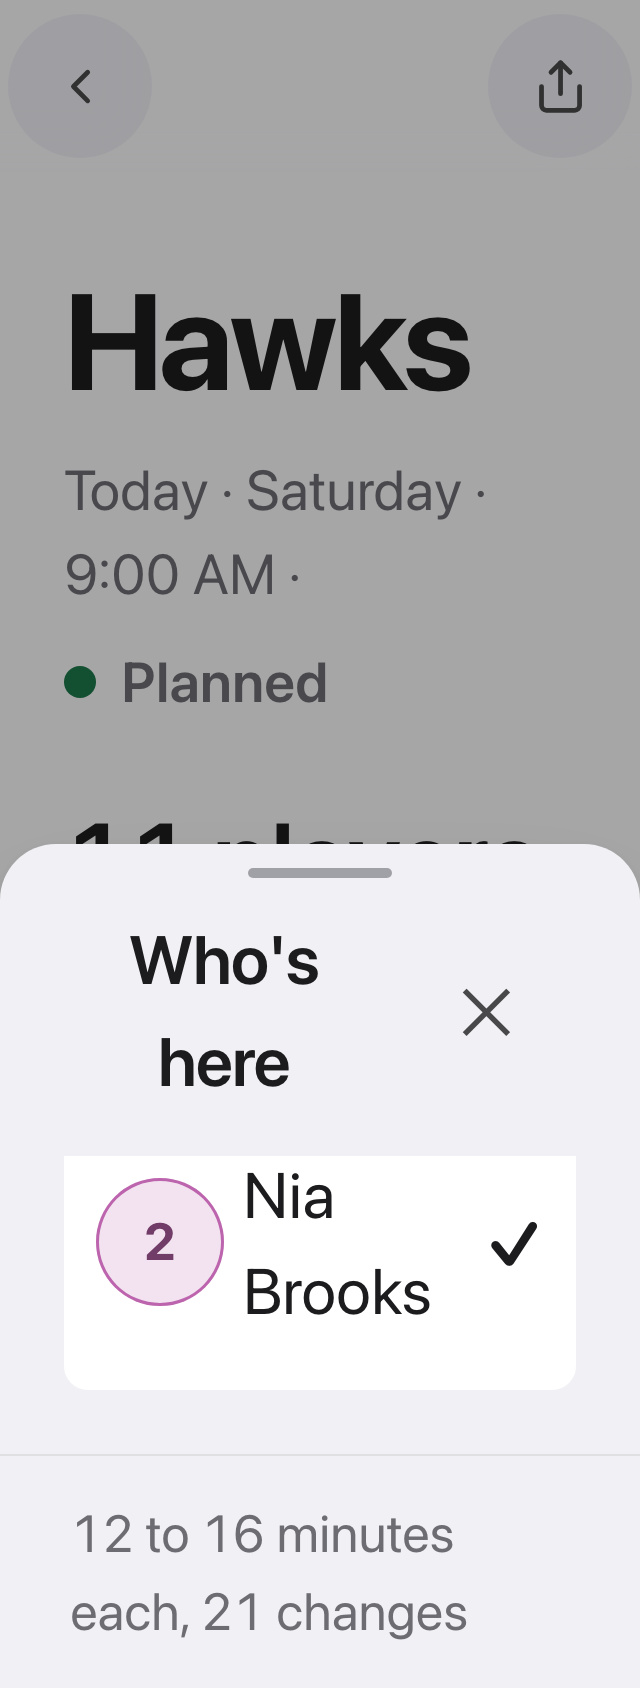
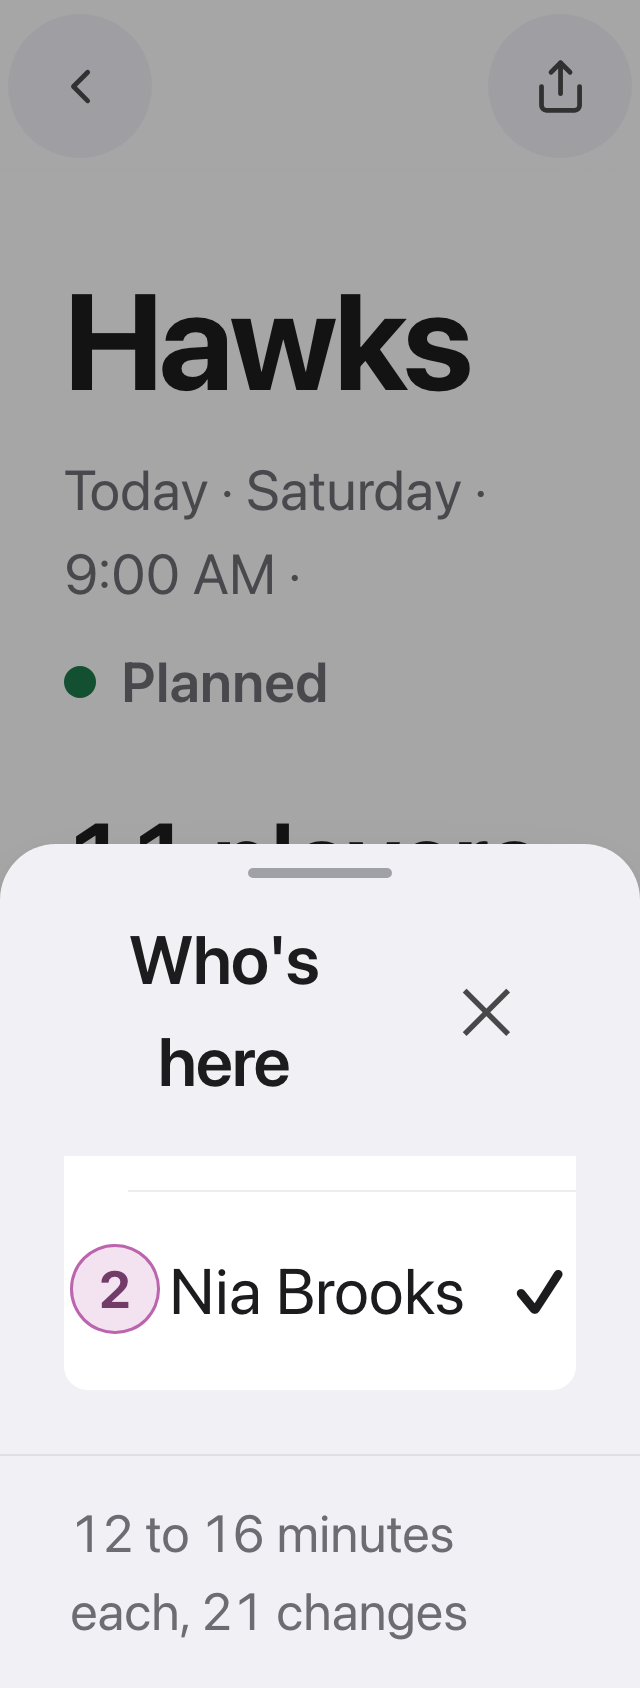
Who's here names keep whole words at 320px with large text
CI's smoke failed on a 244px Who's here row at 320px/32px: the name
column was 111px, so "Williams" broke mid-word ("William/s") and CI's
wider Linux fonts pushed the row past the old half-sheet height cap.
Locally the same row was 196px in a 148px scroll window.

At the narrow breakpoint the badge drops to 1.4rem and the row's gap
and side padding tighten, which widens the name column to 166px. The
row-stack probe drops the font-sensitive sheetH/2 cap for two measured
claims: no word in an ordinary name splits across lines, each word is
at most 85% of the column (a margin for wider fonts), and every row
fits its .bsheet-body scroll window. It failed on "Williams splits
across lines mid-word" before the CSS change. Widest word now
"Lindqvist" at 126px of the 141px allowance; tallest row 148px.

Changed region(s): [[0.0938, 0.6777, 0.5312, 0.8009], [0.5625, 0.7393, 0.7188, 0.8009], [0.7812, 0.7085, 0.875, 0.8009]]

diff --git a/app/app.css b/app/app.css
@@ -4289,18 +4289,24 @@ input[switch]:disabled { opacity: .4; cursor: default; }
      to match it loses nothing. */
   #agClose .i, #frClose .i, .gm-x .i { width: 48px; height: 48px; }
 
-  /* #143 fix pass: Who's here's own row -- badge, name, check/"Absent" all on
-     one line (never stacked, the fix pass 2 regression `row-stack.mjs`
-     guards) -- leaves `.prow-t` only 50px at this root: the row's 256px
-     (`.pgrp`'s own 1rem inset each side) minus `.prow`'s `.8125rem` padding
-     each side, the 2rem badge, the two `.75rem` gaps and the check's own
-     width. `overflow-wrap: anywhere` above stops that from clipping or
-     drawing under the check, but a real two-word name still wrapped to
-     6+ lines in a 50px column. The same buy-back `.actionbar` and `.bar`
-     already take at this exact breakpoint -- half the padding, less than
-     half the gap -- leaves `.prow-t` about 110px instead, enough for an
-     ordinary name to wrap in two or three. */
-  .who-row { gap: .3rem; padding-left: .5rem; padding-right: .5rem; }
+  /* #143 CI fix pass: the buy-back below this comment used to stop at the
+     same half-padding, less-than-half-gap move `.actionbar` and `.bar` take
+     at this breakpoint, leaving `.prow-t` about 111px wide -- passed on this
+     harness's own macOS fonts, but a deployed preview measured on Linux
+     Chrome had "Williams" (116px there) break mid-word inside it
+     ("Marcus / William / s"), because 111px was never checked against an
+     actual word's width, only against a flat row-height guess. `row-stack.mjs`
+     now measures both directly: no word may split across lines, and no word
+     may come within 15% of its own column's width, headroom a wider font can
+     still spend. Getting there past the same padding/gap trim needed the
+     roster badge shrunk too (`.who-row .av`, 1.4rem here against the roster
+     list's 2rem, font-size left on the inherited `--fs-footnote` token rather
+     than a literal override `type-scale.test.js` would reject) -- widening
+     `.prow-t` to about 166px, comfortably past its own 141px (85%) cap for
+     this fixture's own longest word ("Lindqvist", 126px) -- while the badge
+     stays present and beside the name (K2) rather than gone. */
+  .who-row { gap: .15rem; padding-left: .1rem; padding-right: .1rem; }
+  .who-row .av { width: 1.4rem; height: 1.4rem; }
 }
 
 /* The planning views on a phone held sideways. Landscape is not where a coach

diff --git a/app/sw.js b/app/sw.js
@@ -29,7 +29,7 @@ const VERSION = '379';
    `activate` below deletes the old one. It lives HERE rather than in the test
    so that the edit updating it lands on the line below VERSION. Deleting it
    fails the suite too. */
-const SHELL = 'cfcbc0944f2c';
+const SHELL = 'c8a1f189bb4d';
 
 const CACHE = `benchcard-v${VERSION}-${SHELL}`;
 
